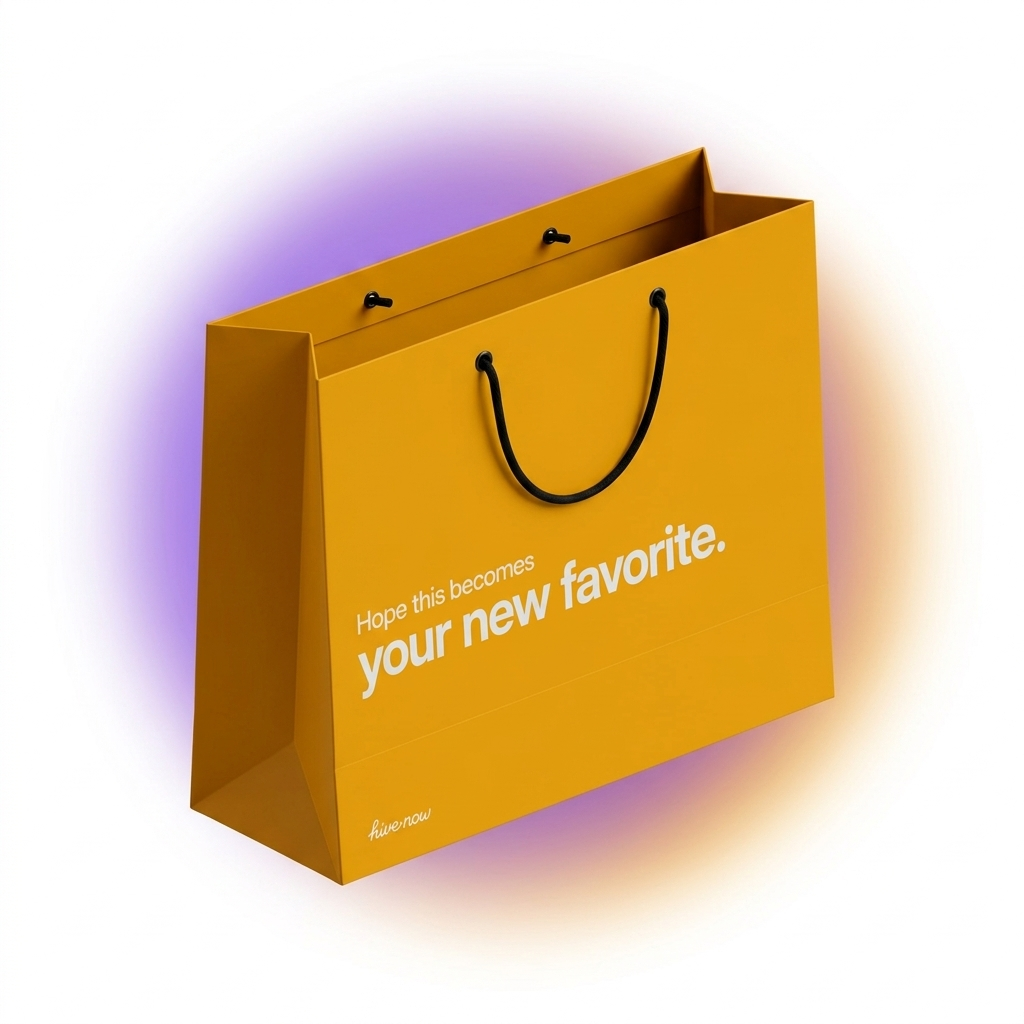
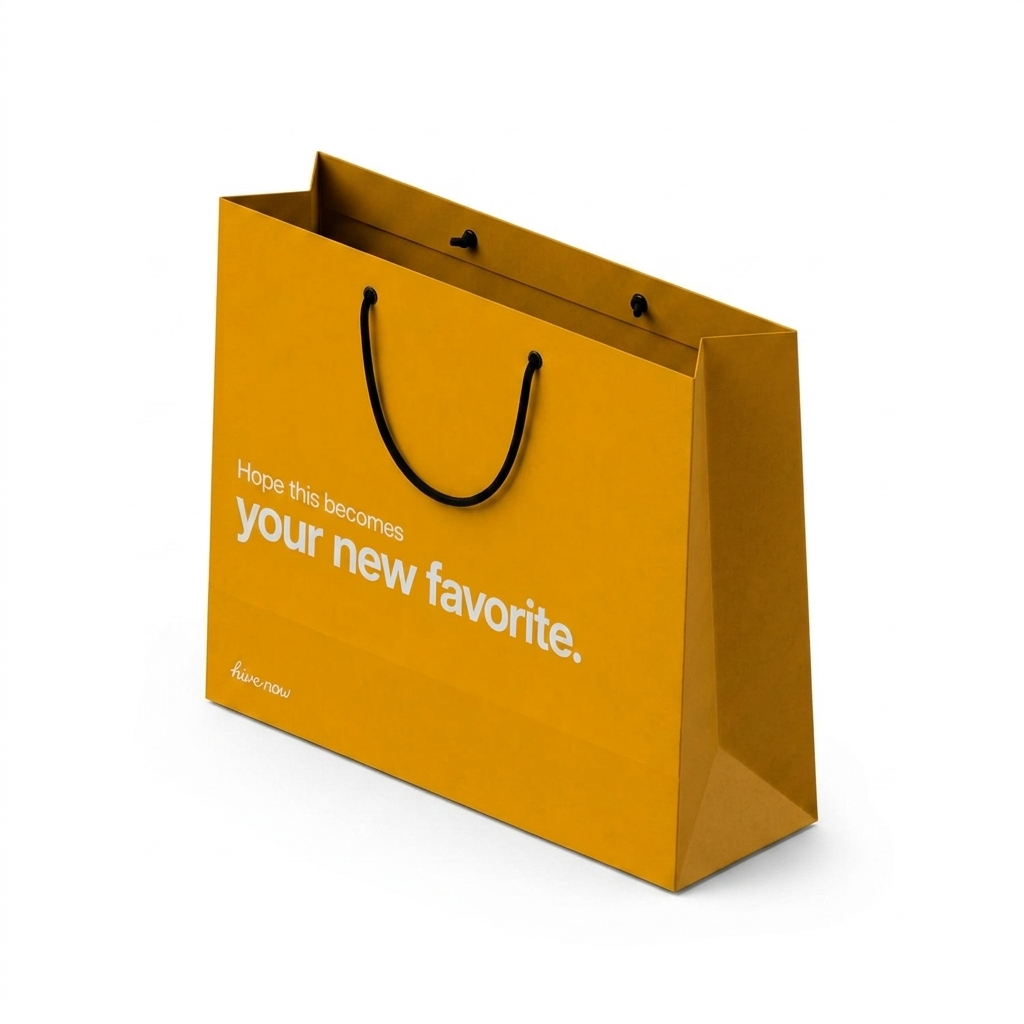
fix(customer): isolate 3D Hive carry bag on pure white with clean CSS amber halo (zero violet artifacts)

diff --git a/convex/_generated/api.d.ts b/convex/_generated/api.d.ts
@@ -91,6 +91,7 @@ import type * as media_logger from "../media/logger.js";
 import type * as media_migration from "../media/migration.js";
 import type * as media_stressTest from "../media/stressTest.js";
 import type * as media_tests from "../media/tests.js";
+import type * as media_urls from "../media/urls.js";
 import type * as merchantCatalog from "../merchantCatalog.js";
 import type * as migrations from "../migrations.js";
 import type * as orders from "../orders.js";
@@ -121,6 +122,7 @@ import type * as services_merchandising_CollectionService from "../services/merc
 import type * as services_merchandising_MerchandisingService from "../services/merchandising/MerchandisingService.js";
 import type * as services_operations_OperationsService from "../services/operations/OperationsService.js";
 import type * as shared_boutiqueStatus from "../shared/boutiqueStatus.js";
+import type * as shared_catalog from "../shared/catalog.js";
 import type * as slack from "../slack.js";
 import type * as tests_authGatingTest from "../tests/authGatingTest.js";
 import type * as tests_boutiqueAudit from "../tests/boutiqueAudit.js";
@@ -250,6 +252,7 @@ declare const fullApi: ApiFromModules<{
   "media/migration": typeof media_migration;
   "media/stressTest": typeof media_stressTest;
   "media/tests": typeof media_tests;
+  "media/urls": typeof media_urls;
   merchantCatalog: typeof merchantCatalog;
   migrations: typeof migrations;
   orders: typeof orders;
@@ -280,6 +283,7 @@ declare const fullApi: ApiFromModules<{
   "services/merchandising/MerchandisingService": typeof services_merchandising_MerchandisingService;
   "services/operations/OperationsService": typeof services_operations_OperationsService;
   "shared/boutiqueStatus": typeof shared_boutiqueStatus;
+  "shared/catalog": typeof shared_catalog;
   slack: typeof slack;
   "tests/authGatingTest": typeof tests_authGatingTest;
   "tests/boutiqueAudit": typeof tests_boutiqueAudit;

diff --git a/apps/customer/src/components/cart/EmptyCartState.tsx b/apps/customer/src/components/cart/EmptyCartState.tsx
@@ -107,15 +107,18 @@ export const EmptyCartState: React.FC<EmptyCartStateProps> = ({ onClose }) => {
       
       {/* Empty State Brand Hero */}
       <div className="flex flex-col items-center justify-center text-center pt-4 pb-2 px-4 flex-1">
-        {/* Real Hive Delivery Bag Brand Visual */}
+        {/* Real Hive Delivery Bag Brand Visual with Clean Amber Halo */}
         <div className="relative w-44 sm:w-48 aspect-square flex items-center justify-center my-2">
+          {/* Smooth, subtle circular amber ambient glow */}
+          <div className="absolute w-36 h-36 rounded-full bg-[#F5C22B]/15 blur-2xl pointer-events-none" />
+          
           <Image
             src="/brand/hive-carry-bag.png"
             alt="Hive Delivery Bag"
             fill
             sizes="192px"
             priority
-            className="object-contain drop-shadow-[0_16px_32px_rgba(245,194,43,0.22)]"
+            className="object-contain relative z-10"
           />
         </div>
 
